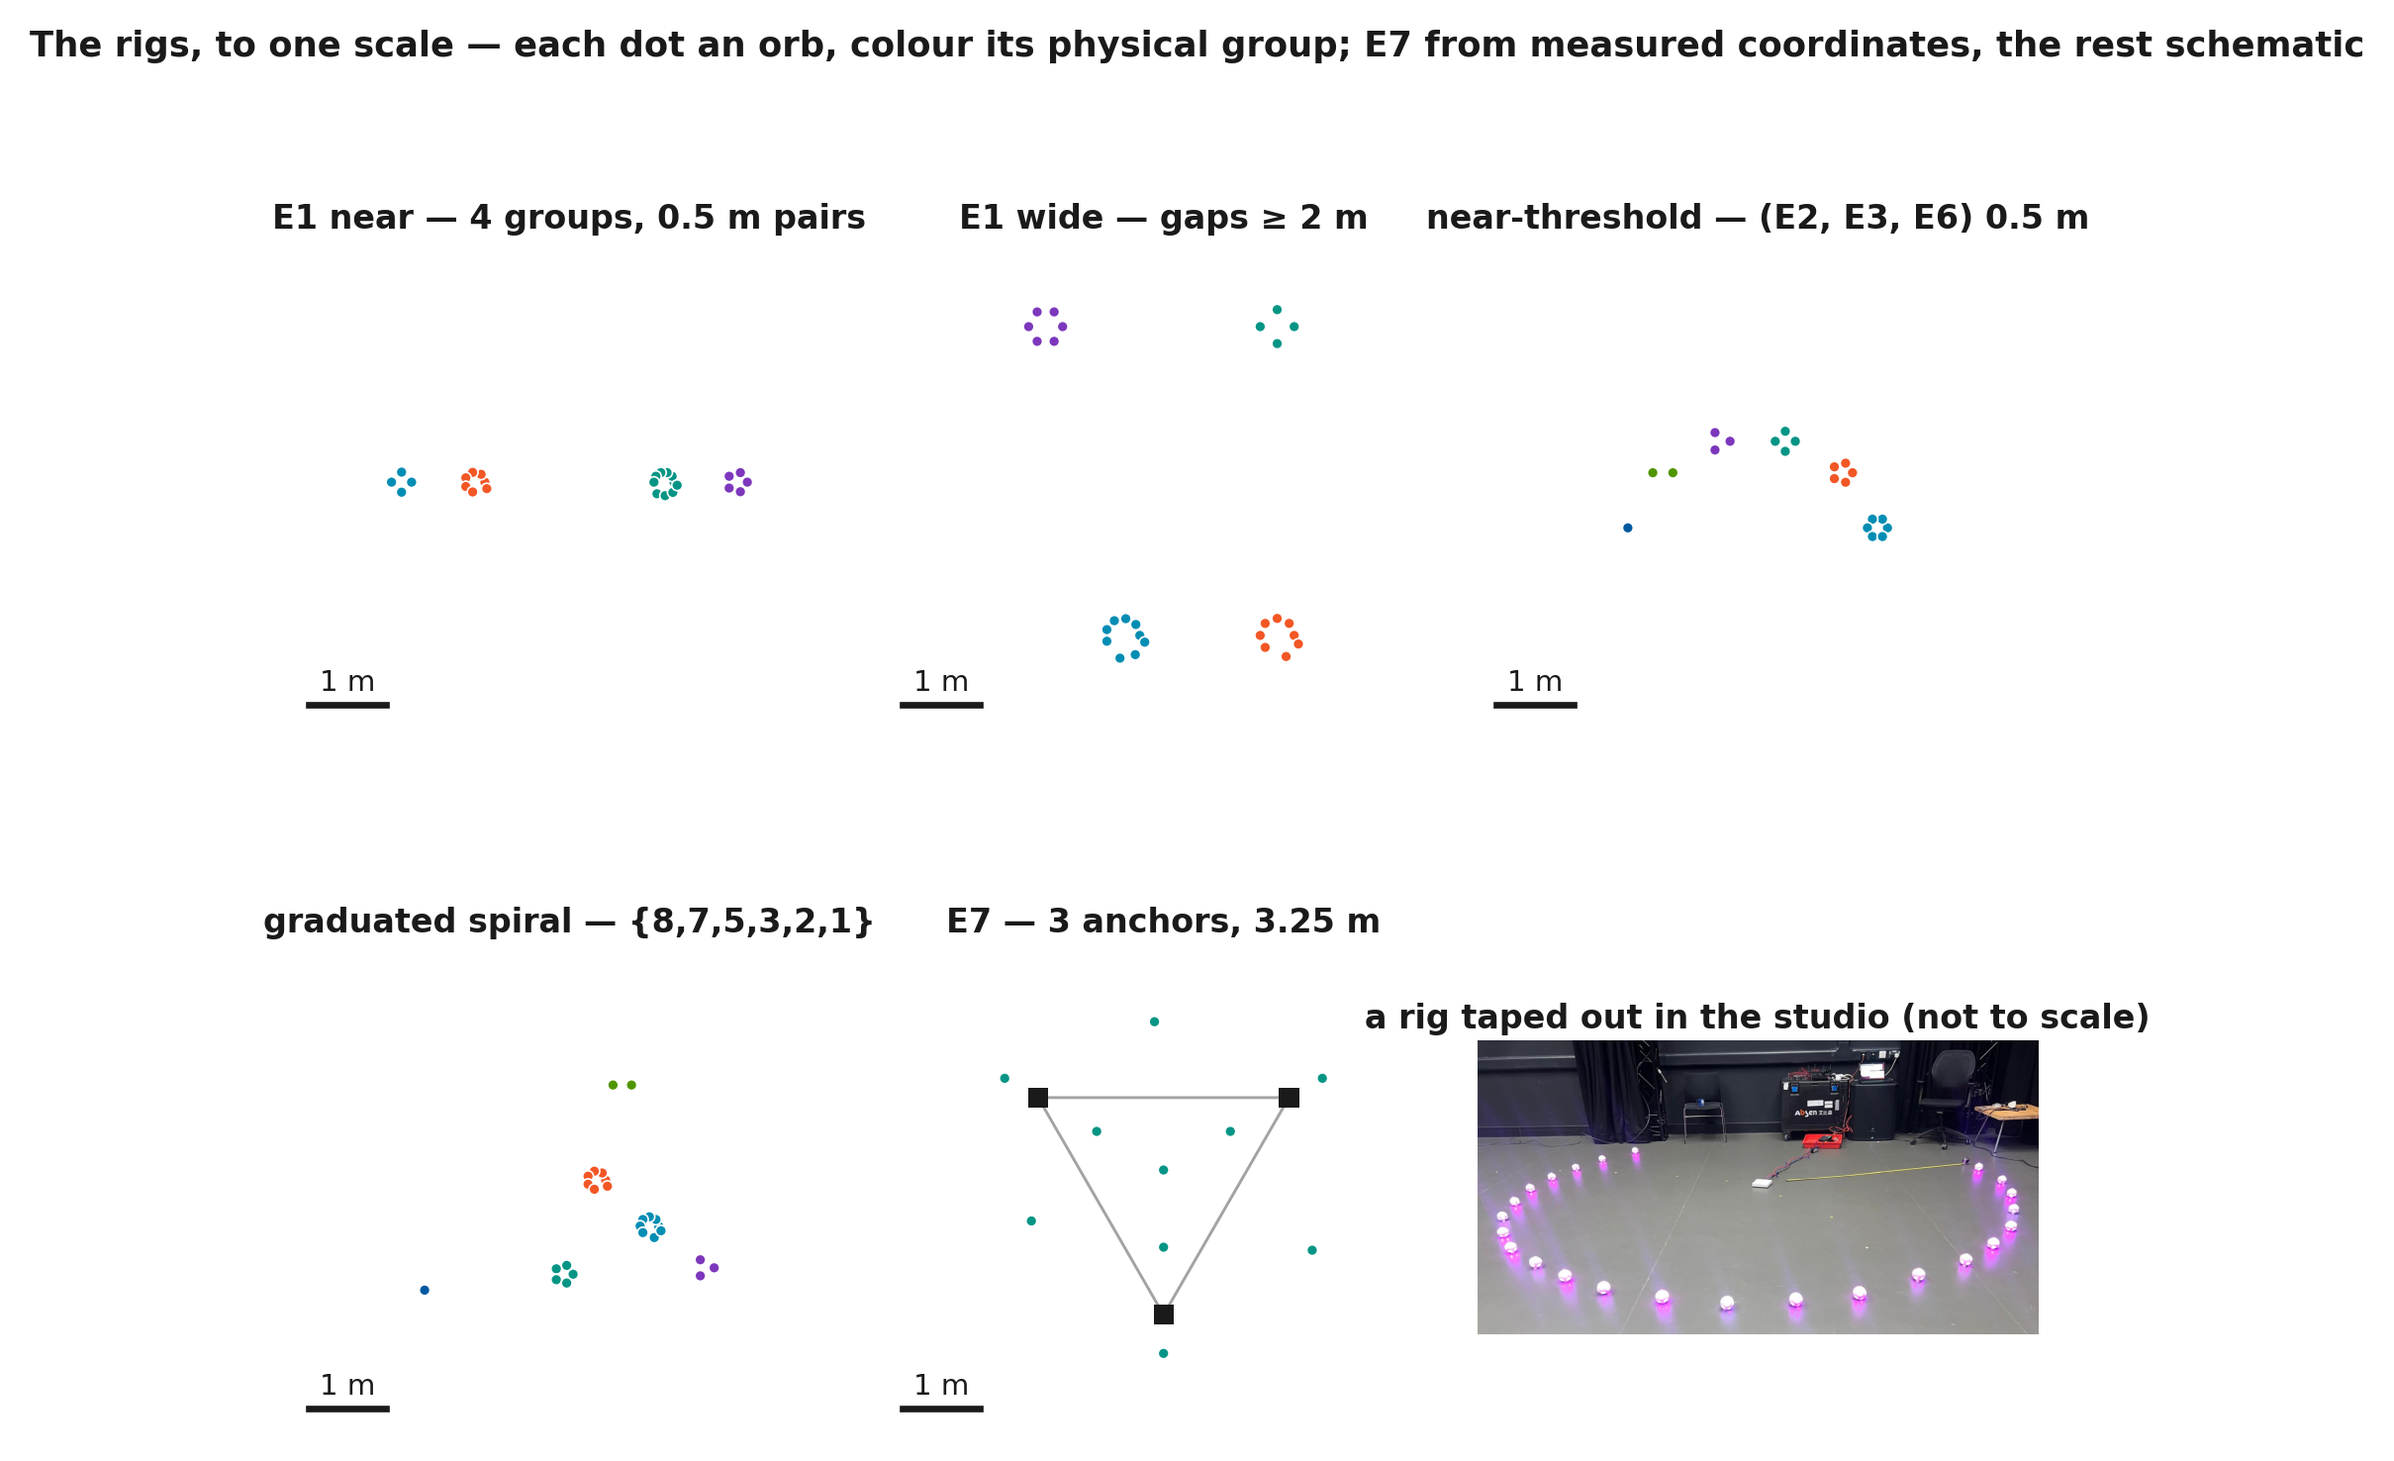
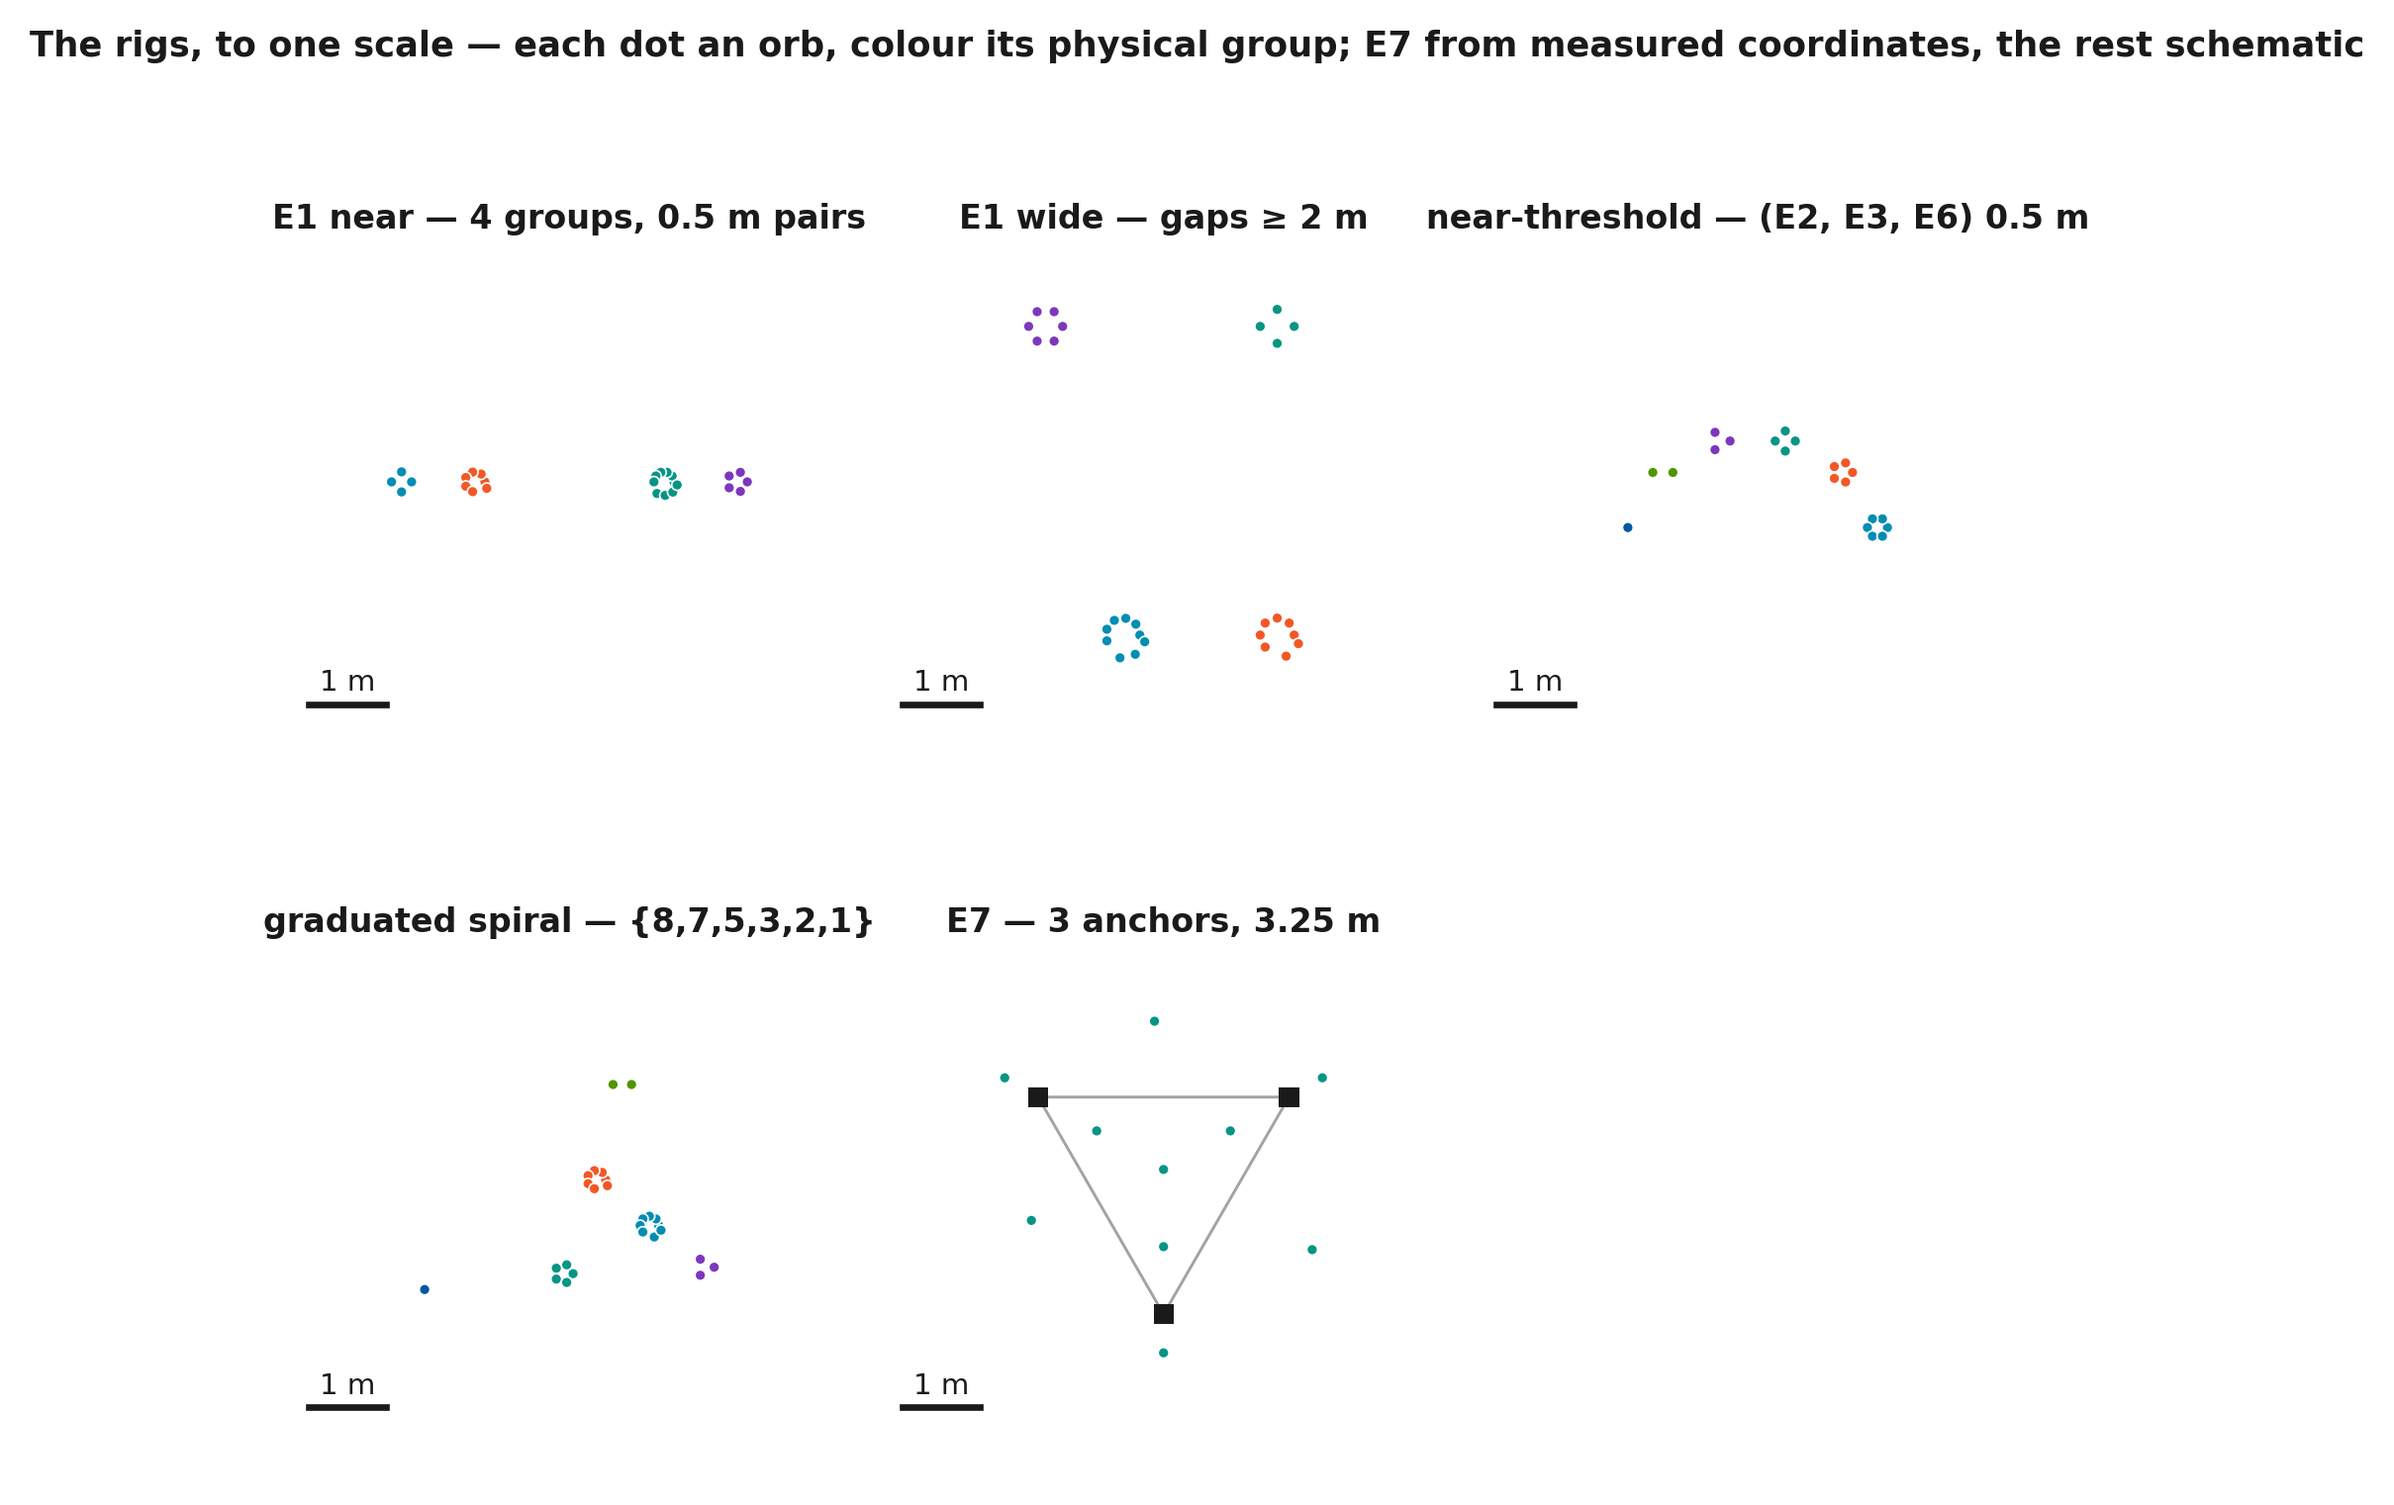
figures: rigs panel without the studio photo

diff --git a/tools/make_calibration_figs.py b/tools/make_calibration_figs.py
@@ -916,7 +916,7 @@ def fig_rigs():
         ax.set_title(title.replace("\n", " — "), fontsize=8, pad=3)
         xb, yb = cx - W / 2 + 0.25, cy - H / 2 + 0.3
         ax.plot([xb, xb + 1.0], [yb, yb], "-", color=INK, lw=1.6); ax.text(xb + 0.5, yb + 0.1, "1 m", ha="center", va="bottom", fontsize=7)
-    ph = cells[5]; ph.imshow(mpimg.imread(f"{OUT}/rig_photo_studio.jpg")); ph.axis("off"); ph.set_title("a rig taped out in the studio (not to scale)", fontsize=8, pad=3)
+    cells[5].axis("off")
     fig.suptitle("The rigs, to one scale — each dot an orb, colour its physical group; E7 from measured coordinates, the rest schematic", x=0.01, ha="left", fontsize=8.5, fontweight="bold")
     save(fig, "rigs.png")
 
